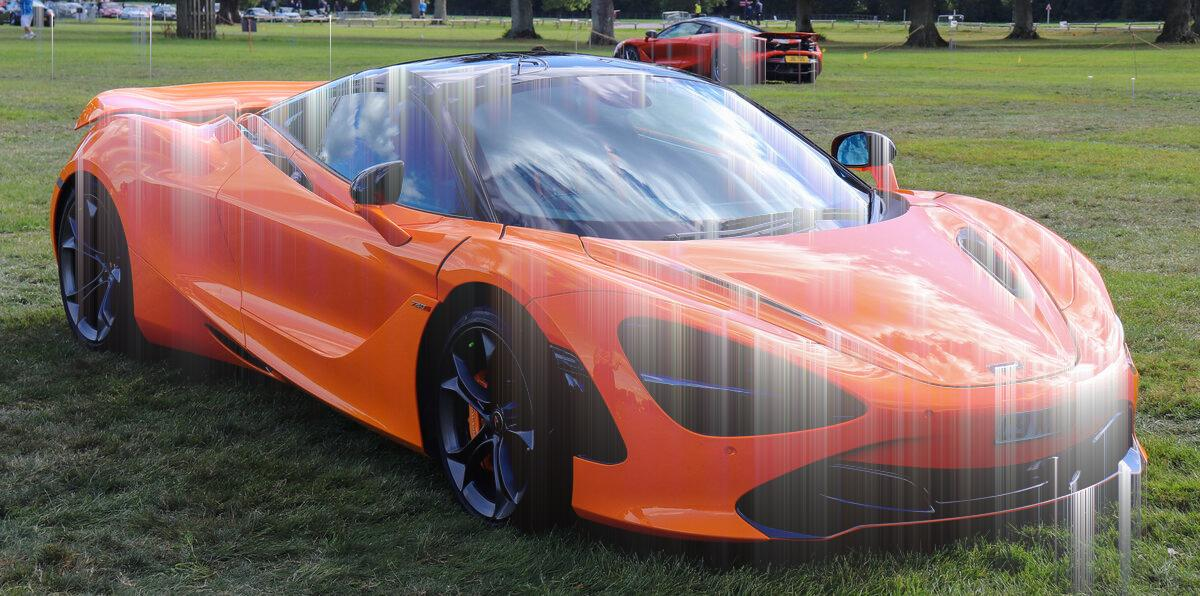
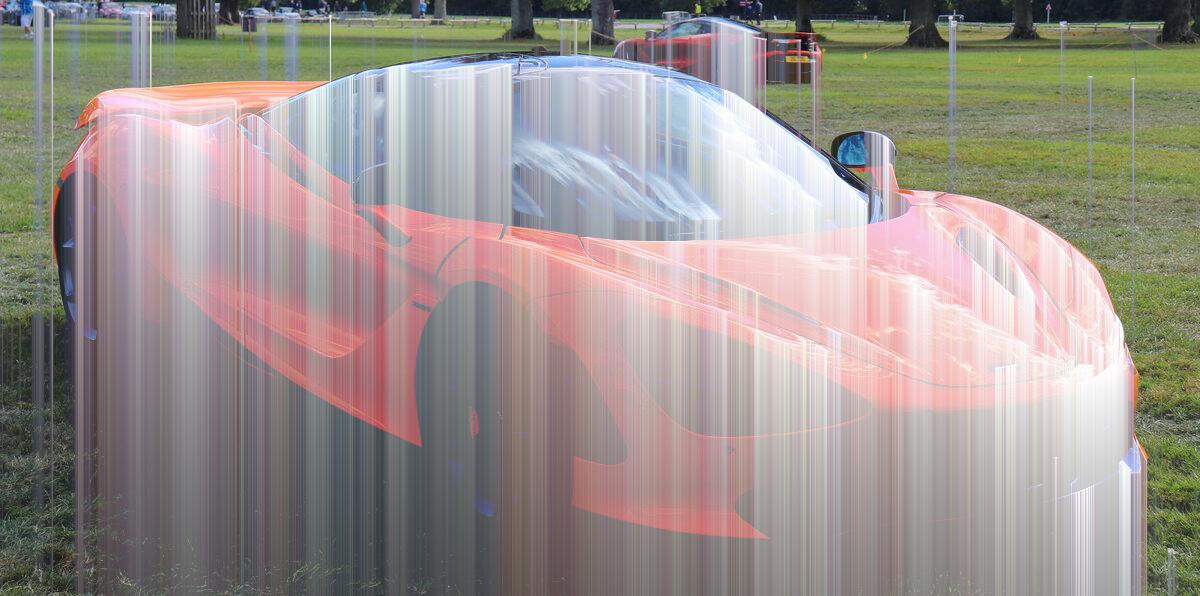
docs(readme): stronger examples for four patches, channel-swap with colour
The jpeg-rot, bit-crush, channel-offset and drip examples were too subtle
at README size; they are regenerated with stronger options named on an
Example line, and the patches' defaults are unchanged. channel-swap joins
the colour patches.

diff --git a/README.md b/README.md
@@ -46,7 +46,9 @@ Reduce color depth by posterizing to N bits per channel.
 
 Default: `--bits 3` (8 color levels — 512 total colors)
 
-![bit-crush example](_output/mclaren-crush-3bit.jpg)
+Example: `--bits 1`
+
+![bit-crush example](_output/mclaren-crush-1bit.jpg)
 
 ### res-crush
 
@@ -69,6 +71,8 @@ Shift R, G, B channels by independent pixel amounts for a misregistered print / 
 ```
 
 Default: `--r 30,15 --b -25,-10`
+
+Example: `--r 140,50 --g -20,40 --b -120,-40`
 
 ![channel-offset example](_output/mclaren-offset.jpg)
 
@@ -103,18 +107,6 @@ python3 ./scan-glitch/scan-glitch.py <input> [output] [--severity N] [--seed N]
 ```
 
 ![scan-glitch example](_output/mclaren-glitch.jpg)
-
-### channel-swap
-
-Rearrange RGB channels — swap, duplicate, or reorder color channels.
-
-```bash
-python3 ./channel-swap/channel-swap.py <input> [output] [--map B,G,R]
-```
-
-Default: `--map B,G,R` (swaps red and blue)
-
-![channel-swap example](_output/mclaren-chswap.jpg)
 
 ### echo
 
@@ -274,6 +266,8 @@ python3 ./drip/drip.py <input> [output] [--length PX] [--threshold N] [--directi
 
 Default: `--length 120 --threshold 180 --direction down`
 
+Example: `--length 500 --threshold 120`
+
 ![drip example](_output/mclaren-drip.jpg)
 
 ### edge-glow
@@ -384,6 +378,8 @@ python3 ./jpeg-rot/jpeg-rot.py <input> [output] [--quality N] [--generations N]
 
 Default: `--quality 10 --generations 30`
 
+Example: `--quality 5 --generations 80`
+
 ![jpeg-rot example](_output/mclaren-jpegrot.jpg)
 
 ### ascii
@@ -464,6 +460,18 @@ python3 ./hue-isolate/hue-isolate.py <input> [output] [--hue DEG] [--width DEG] 
 Default: `--hue 25 --width 20 --amount 1` (orange)
 
 ![hue-isolate example](_output/mclaren-hueiso.jpg)
+
+### channel-swap
+
+Rearrange RGB channels — swap, duplicate, or reorder color channels.
+
+```bash
+python3 ./channel-swap/channel-swap.py <input> [output] [--map B,G,R]
+```
+
+Default: `--map B,G,R` (swaps red and blue)
+
+![channel-swap example](_output/mclaren-chswap.jpg)
 
 ### dot-halftone
 
